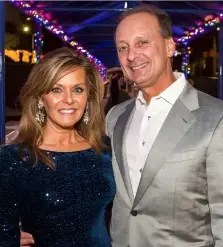
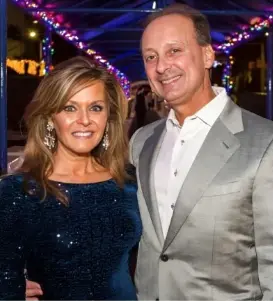
Styling: New UI adjustment for Services and changes on the content of each services

diff --git a/app/services/specialized-services/page.tsx b/app/services/specialized-services/page.tsx
@@ -17,17 +17,19 @@ export default function SpecializedServices({}: Props) {
       <HeroHeaderNormal heading="Specialized Services" context="" />
       {/* Services A Section */}
       <ServicesLeft
-        heading="Specialized Services"
-        description="In addition to our recruitment services, we offer Specialized Services programs aimed at skill and process improvement, as well as objective setting. Our training helps enhance the capabilities of your virtual staff, ensuring they meet and exceed your business needs."
+        heading="Overview"
+        description="Our Specialized Services provide more than just recruitment; we offer in-depth training programs designed to enhance your team’s skills and effectiveness. Our training includes Complete Staff Work, Basic Management training, and Advanced Leadership training. These programs cover crucial areas such as writing job descriptions, setting goals and objectives, performing SWOT analysis, and understanding KRA and KPI metrics. We also focus on identifying gaps and bottlenecks and implementing process improvements. By investing in these specialized training programs, we help ensure that your virtual staff not only meets but exceeds your business needs, driving efficiency and growth in every aspect of your operations."
         button={{
           navLink: {
             title: "Start Hiring",
             url: "/start-hiring",
             follow: false,
           },
-          variant: "link2",
+          variant: "secondary",
           size: "xl",
-          icon: () => <ChevronRight className="text-deepZinc w-6 h-6" />,
+          icon: () => (
+            <ChevronRight className="text-neutralLightZinc w-6 h-6" />
+          ),
         }}
         image={{
           src: "/img/services3.webp",
@@ -40,50 +42,50 @@ export default function SpecializedServices({}: Props) {
       {/* Services Benefits Section */}
       <ServicesBenefits
         heading="Benefits of the Specialized Services"
-        description="You can add this services along side the other tier to enhance the capability of your dream team."
+        description="Our Specialized Services offer targeted training programs designed to enhance your team’s skills and efficiency. With offerings such as Complete Staff Work, Basic Management Training, and Advanced Leadership Training, our programs are tailored to address critical areas like job description writing, goal setting, SWOT analysis, and process improvement."
         cards={[
           {
-            heading: "Benefits A",
+            heading: "Enhanced Employee Skills",
             description:
-              "Lorem ipsum dolor sit amet, consectetur adipiscing elit. Suspendisse varius enim in eros elementum tristique. Duis cursus, mi quis viverra ornare, eros dolor interdum nulla, ut commodo diam libero vitae erat.",
+              "Equip your team with advanced skills and methodologies, including KPI tracking and SMART goal setting, to boost their performance and efficiency.",
             image: {
-              src: "https://d22po4pjz3o32e.cloudfront.net/placeholder-image.svg",
-              alt: "Benefits A",
-              width: 1000,
-              height: 1000,
+              src: "/img/computer.svg",
+              alt: "Enhanced Employee Skills",
+              width: 304,
+              height: 160,
             },
           },
           {
-            heading: "Benefits B",
+            heading: "Improved Efficiency",
             description:
-              "Lorem ipsum dolor sit amet, consectetur adipiscing elit. Suspendisse varius enim in eros elementum tristique. Duis cursus, mi quis viverra ornare, eros dolor interdum nulla, ut commodo diam libero vitae erat.",
+              "Streamline operations using frameworks like PDCA (Plan-Do-Check-Act) and process improvement techniques to reduce bottlenecks and enhance workflow.",
             image: {
-              src: "https://d22po4pjz3o32e.cloudfront.net/placeholder-image.svg",
-              alt: "Benefits B",
-              width: 1000,
-              height: 1000,
+              src: "/img/circle-fading-arrow-up.svg",
+              alt: "Improved Efficiency",
+              width: 304,
+              height: 160,
             },
           },
           {
-            heading: "Benefits C",
+            heading: "Strategic Growth",
             description:
-              "Lorem ipsum dolor sit amet, consectetur adipiscing elit. Suspendisse varius enim in eros elementum tristique. Duis cursus, mi quis viverra ornare, eros dolor interdum nulla, ut commodo diam libero vitae erat.",
+              "Develop and execute growth strategies using SWOT analysis and other strategic planning tools to set clear, actionable objectives and drive your business forward.",
             image: {
-              src: "https://d22po4pjz3o32e.cloudfront.net/placeholder-image.svg",
-              alt: "Benefits C",
-              width: 1000,
-              height: 1000,
+              src: "/img/shrub.svg",
+              alt: "Informed Decision-Making",
+              width: 304,
+              height: 160,
             },
           },
           {
-            heading: "Benefits D",
+            heading: "Informed Decision-Making",
             description:
-              "Lorem ipsum dolor sit amet, consectetur adipiscing elit. Suspendisse varius enim in eros elementum tristique. Duis cursus, mi quis viverra ornare, eros dolor interdum nulla, ut commodo diam libero vitae erat.",
+              "Utilize comprehensive frameworks such as KPI metrics, SMART criteria, and PDCA cycles to make data-driven decisions and achieve superior business outcomes.",
             image: {
-              src: "https://d22po4pjz3o32e.cloudfront.net/placeholder-image.svg",
-              alt: "Benefits D",
-              width: 1000,
-              height: 1000,
+              src: "/img/chart-line.svg",
+              alt: "Informed Decision-Making",
+              width: 304,
+              height: 160,
             },
           },
         ]}

diff --git a/app/services/standard-plan/page.tsx b/app/services/standard-plan/page.tsx
@@ -20,7 +20,7 @@ export default function StandardPlan({}: Props) {
       />
       {/* Services A Section */}
       <ServicesLeft
-        heading="Standard Plan"
+        heading="Overview"
         description="Elevate your business operations with our Standard Plan, offering advanced recruitment solutions along with integrated timekeeping and payroll administration. Designed for growing businesses, this tier provides enhanced support and management to ensure seamless and efficient workforce operations. We manage salaries, benefits, and all related administrative tasks, allowing you to focus on growing your business. This tier is designed to streamline operations and ensure smooth management of your workforce."
         button={{
           navLink: {
@@ -28,9 +28,11 @@ export default function StandardPlan({}: Props) {
             url: "/start-hiring",
             follow: false,
           },
-          variant: "link2",
+          variant: "secondary",
           size: "xl",
-          icon: () => <ChevronRight className="text-deepZinc w-6 h-6" />,
+          icon: () => (
+            <ChevronRight className="text-neutralLightZinc w-6 h-6" />
+          ),
         }}
         image={{
           src: "/img/services2.webp",
@@ -82,47 +84,47 @@ export default function StandardPlan({}: Props) {
       {/* Services Benefits Section */}
       <ServicesBenefits
         heading="Benefits of the Standard Plan"
-        description="Choose our Standard Plan for a seamless staffing experience that supports your business’s success and growth, allowing you to concentrate on what you do best."
+        description="Experience seamless workforce management with our Standard Plan. Enjoy the benefits of comprehensive recruiting, precise time monitoring, efficient payroll processing, and hassle-free benefits administration. This all-in-one solution streamlines your operations, boosts productivity, and ensures your team is well-supported, so you can focus on driving your business forward."
         cards={[
           {
-            heading: "Streamlined Operations",
+            heading: "Recruiting",
             description:
-              "By consolidating recruitment, timekeeping, and payroll into one service, we simplify your administrative processes, saving you time and reducing overhead.",
+              "We handle the entire recruitment process from start to finish, ensuring you attract and hire top talent tailored to your specific business needs. Our expert team leverages a vast network and advanced sourcing techniques to find candidates who not only have the right skills but also fit your company culture. With us managing recruitment, you gain access to a pool of high-caliber candidates efficiently and cost-effectively, saving you valuable time and resources.",
             image: {
               src: "/img/handshake.svg",
-              alt: "Streamlined Operations",
+              alt: "Recruiting",
               width: 304,
               height: 160,
             },
           },
           {
-            heading: "Enhanced Focus",
+            heading: "Time Monitoring",
             description:
-              "With administrative tasks managed by our team, you can focus on strategic business growth and core operations.",
+              "Our robust time monitoring service ensures accurate tracking of employee hours and productivity. We provide detailed, actionable reports that help you manage and optimize your workforce effectively. Beyond just tracking time, our system helps identify areas for improvement and ensures compliance with labor regulations, ultimately enhancing operational efficiency and minimizing administrative burdens.",
             image: {
-              src: "/img/focus.svg",
-              alt: "Enhanced Focus",
+              src: "/img/clock.svg",
+              alt: "Time Monitoring",
               width: 304,
               height: 160,
             },
           },
           {
-            heading: "Consistency and Accuracy",
+            heading: "Payroll",
             description:
-              "Our dedicated team ensures precise payroll processing and timely benefit administration, minimizing errors and ensuring your employees are satisfied.",
+              "Leave the complexities of payroll to us. We manage all aspects of payroll processing, including accurate salary disbursements, tax withholdings, and compliance with wage laws. Our streamlined payroll system ensures that your staff is paid on time and without errors, reducing the risk of costly mistakes and freeing you to focus on growing your business.",
             image: {
-              src: "/img/check-check.svg",
-              alt: "Consistency and Accuracy",
+              src: "/img/wallet-cards.svg",
+              alt: "Payroll",
               width: 304,
               height: 160,
             },
           },
           {
-            heading: "Scalable Solutions",
+            heading: "Benefits Administration",
             description:
-              "As your business grows, our services adapt to meet your evolving needs, providing a flexible and scalable solution.",
+              "Our comprehensive benefits administration service takes the hassle out of managing employee benefits. We handle everything from enrollment to ongoing management and compliance, ensuring your team receives the full range of benefits they are entitled to. By outsourcing this function, you can offer competitive benefits packages without the administrative burden, improving employee satisfaction and retention.",
             image: {
-              src: "/img/scaling.svg",
+              src: "/img/book-heart.svg",
               alt: "Scalable Solutions",
               width: 304,
               height: 160,

diff --git a/app/services/basic-plan/page.tsx b/app/services/basic-plan/page.tsx
@@ -14,22 +14,24 @@ export default function BasicPlan({}: Props) {
     <main className="w-full mx-auto bg-neutralLightZinc overflow-hidden">
       {/* Header Section */}
       <HeroHeaderNormal
-        heading="Basic Plan: Recruiting and Payroll"
+        heading="BASIC PLAN:  Recruiting and Payroll"
         context=""
       />
       {/* Services A Section */}
       <ServicesLeft
-        heading="Basic Plan"
-        description="The Basic Plan offers recruitment for 3 different types of Virtual Staff. The General Virtual Staff are for essential tasks such as email management, data entry, and social media management, providing foundational support for businesses. The Skilled Staff focuses on specialized roles like web developers, SEO experts, and accountants, catering to specific business needs. The High-Level Professional Services targets niche areas, offering advanced expertise in fields like legal, financial, and human resources for businesses seeking specialized knowledge."
+        heading="Overview"
+        description="The Basic Recruitment and Payroll service is designed for employers who require project-based staff without the complexity of managing full-time employees. We take care of the recruitment process, sourcing the right talent for your specific project needs, and manage payroll for your temporary workforce. This service is streamlined, as we do not provide timekeeping or benefits administration, making it perfect for short-term, flexible staffing solutions. Focus on your project’s success, while we handle the recruitment and payroll efficiently."
         button={{
           navLink: {
             title: "Start Hiring",
             url: "/start-hiring",
             follow: false,
           },
-          variant: "link2",
+          variant: "secondary",
           size: "xl",
-          icon: () => <ChevronRight className="text-deepZinc w-6 h-6" />,
+          icon: () => (
+            <ChevronRight className="text-neutralLightZinc w-6 h-6" />
+          ),
         }}
         image={{
           src: "/img/services1.webp",
@@ -41,7 +43,7 @@ export default function BasicPlan({}: Props) {
 
       <ServicesOutline
         heading="What We Offer"
-        subheading="The Basic Plan offers recruitment for General Virtual Staff, Skilled Staff, and High-level Professionals."
+        subheading="The Basic Plan offers recruitment and payroll services for General Virtual Staff, Skilled Staff, and High-level Professionals."
         tabs={[
           {
             heading: "General Virtual Staff",

diff --git a/app/services/page.tsx b/app/services/page.tsx
@@ -18,8 +18,8 @@ export default function Services({}: Props) {
       />
       {/* Services A Section */}
       <ServicesLeft
-        heading="Basic Plan: Recruiting Only"
-        description="The Basic Plan offers recruitment for General Virtual Staff, Skilled Staff, and High-level Professionals."
+        heading="BASIC PLAN:  Recruiting and Payroll"
+        description="Our Basic Recruitment and Payroll service is ideal for employers seeking project-based staff. We handle the recruiting and payroll processes, allowing you to focus on the project, without the need for timekeeping or benefits administration."
         button={{
           navLink: {
             title: "Learn More",
@@ -27,6 +27,7 @@ export default function Services({}: Props) {
             follow: false,
           },
           variant: "link2",
+          className: "py-2 px-0",
           size: "xl",
           icon: () => <ChevronRight className="text-deepZinc w-6 h-6" />,
         }}
@@ -39,8 +40,8 @@ export default function Services({}: Props) {
       />
       {/* Services B Section */}
       <ServicesRight
-        heading="Standard Plan: Advance Recruiting Solutions"
-        description="Our Standard Plan provides an all-in-one solution for businesses, combining expert recruitment with streamlined timekeeping and payroll administration. This tier is designed to alleviate the complexities of workforce management so you can concentrate on growing your business."
+        heading="STANDARD PLAN:  Advance Recruiting Solutions"
+        description="Our Standard plan offers a comprehensive solution for your staffing needs, including recruiting, payroll, timekeeping, and benefits administration. Ideal for businesses seeking full-service support, this plan ensures seamless management of your workforce, allowing you to focus on your core operations."
         button={{
           navLink: {
             title: "Learn More",
@@ -48,6 +49,7 @@ export default function Services({}: Props) {
             follow: false,
           },
           variant: "link2",
+          className: "py-2 px-0",
           size: "xl",
           icon: () => <ChevronRight className="text-deepZinc w-6 h-6" />,
         }}
@@ -62,7 +64,7 @@ export default function Services({}: Props) {
       {/* Services C Section */}
       <ServicesLeft
         heading="Specialized Services"
-        description="In addition to our recruitment services, we offer Specialized Services programs aimed at skill and process improvement, as well as objective setting."
+        description="Our Specialized Services go beyond recruitment to offer tailored training programs that elevate your team’s capabilities. From Complete Staff Work and Basic Management training to Advanced Leadership training, we cover essential skills such as job description writing, goal setting, SWOT analysis, and process improvement to ensure your virtual staff excels and drives your business forward."
         button={{
           navLink: {
             title: "Learn More",
@@ -70,6 +72,7 @@ export default function Services({}: Props) {
             follow: false,
           },
           variant: "link2",
+          className: "py-2 px-0",
           size: "xl",
           icon: () => <ChevronRight className="text-deepZinc w-6 h-6" />,
         }}

diff --git a/components/section/how-we-help-feature.tsx b/components/section/how-we-help-feature.tsx
@@ -47,10 +47,10 @@ export const HowWeHelpFeature = (props: Header21Props) => {
     >
       <div className="container-xl">
         <div className="grid grid-cols-1 gap-x-20 gap-y-12 md:gap-y-16 lg:grid-cols-2 lg:items-center">
-          <div className=" flex w-full max-w-full items-center justify-center ">
+          <div className=" flex max-w-full items-center justify-center ">
             <Image
               src={image.src}
-              className="w-full object-cover rounded-lg"
+              className=" object-cover rounded-lg"
               alt={image.alt}
               width={image.width}
               height={image.height}
@@ -114,10 +114,10 @@ export const Header21Defaults: Header21Props = {
   ],
 
   image: {
-    src: "/img/HowWeHelp.webp",
+    src: "/img/phil_wardell_w_wife.webp",
     alt: "Placeholder image",
-    width: 1000,
-    height: 1000,
+    width: 450,
+    height: 400,
   },
 };
 

diff --git a/components/section/services-left.tsx b/components/section/services-left.tsx
@@ -25,9 +25,9 @@ export const ServicesLeft = (props: ServicesLeftProps) => {
             <h1 className="mb-5 text-2xl font-bold md:mb-6 md:text-4xl lg:text-6xl">
               {heading}
             </h1>
-            <p className="md:text-md">{description}</p>
+            <p className="text-md lg:text-lg font-medium">{description}</p>
             <div className="mt-6 md:mt-8">
-              {button && <LinkButton {...button} className="py-2 px-0" />}
+              {button && <LinkButton {...button} />}
             </div>
           </div>
           <div className="">

diff --git a/components/form/podio-form.tsx b/components/form/podio-form.tsx
@@ -5,7 +5,7 @@ export const PodioForm = (props: Props) => {
   return (
     <section
       id="podio_form_container"
-      className="px-[5%] py-16 md:py-24 lg:py-28"
+      className="lg:px-[5%] py-16 md:py-24 lg:py-28"
     >
       <div className="container-xl h-[1720px] overflow-hidden">
         <Suspense fallback={<p>Loading form...</p>}>

diff --git a/components/section/services-right.tsx b/components/section/services-right.tsx
@@ -36,7 +36,7 @@ export const ServicesRight = (props: ServicesRightProps) => {
             </h1>
             <p className="md:text-md">{description}</p>
             <div className="mt-6 md:mt-8">
-              {button && <LinkButton {...button} className="py-2 px-0" />}
+              {button && <LinkButton {...button} />}
             </div>
           </div>
         </div>